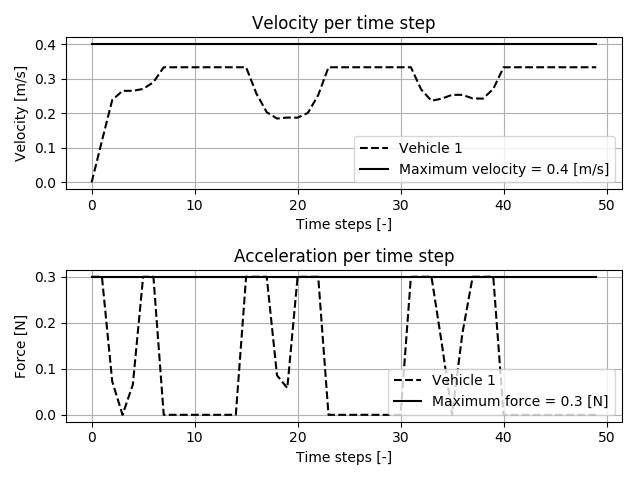
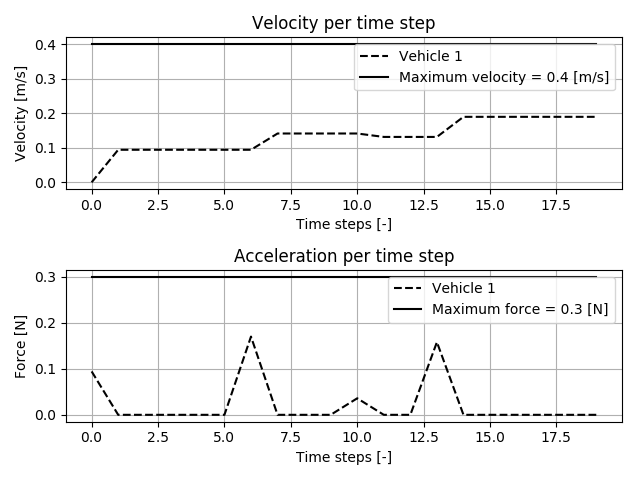
savefile updated

diff --git a/src/test.py b/src/test.py
@@ -4,7 +4,10 @@ from obstacle import Obstacle
 import matplotlib.pyplot as plt
 import numpy as np
 from math import *
+import time
+import csv
 import argparse
+import pandas as pd
 
 if __name__ == '__main__':
 
@@ -20,16 +23,19 @@ if __name__ == '__main__':
         # f_max = [0.2]    # maximum force experienced by a vehicle
         f_max = [0.3]    # maximum force experienced by a vehicle
         T = 100         # maximum time of travel
-        dt = 2          # time step size
+        dt = 5          # time step size
         d_obs = 0.1     # minimum distance required from obstacle
         M = 75          # number of constraints in order to approximate the force and velocity magnitudes
         
         obs_coords = []                  # array containing all obstacles in [x_min,x_max,y_min,y_max] format
         veh_coords = [[5, 5, 0, -2]]     # array containing all vehicles in [x_0,y_0,x_fin,y_fin] format
-        # wp_coords = [[[-0.7, 6], [3,3],[1,5],[-5, 4]]]  # array containing all waypoint in [x_wp,y_wp] format
-        wp_coords = [[[1, 3], [3,3],[-2,3], [1, 1], [3,1],[-2,1], [3,-1],[-2,-1],[1, -1], [1,-3],[3,-3], [-2, -3]]]  # array containing all waypoint in [x_wp,y_wp] format
-        name = 'waypoints.png'              # name of the figure to be saved
+        wp_coords = [[[-0.7, 6], [3,3],[1,5],[-5, 4]]]  # array containing all waypoint in [x_wp,y_wp] format
+        # wp_coords = [[[1, 3], [3,3],[-2,3], [1, 1], [3,1],[-2,1], [3,-1],[-2,-1],[1, -1], [1,-3],[3,-3], [-2, -3]]]  # array containing all waypoint in [x_wp,y_wp] format
+        name = 'waypoints'              # name of the figure to be saved
+        filename_data= 'robot_'
+        filename_waypoint = 'waypoints_'
         folder = 'results/waypoints/'       # folder name
+        datafolder = 'results/data/'       # folder name
 
         constrain_multiple_vehicles = False   # True: add contraints related to multiple vehicle, False: do not add
         constrain_waypoints = True            # True: add contraints related to waypoints, False: do not add
@@ -91,7 +97,6 @@ if __name__ == '__main__':
     # Initialize model
     m = Model("ppl")
 
-    
     ###### Inputs to the generation of the vehicles ######
     vehicle_mass = 5           # mass of the vehicles
     # v_max = 0.225              # maximum velocity of the vehicle
@@ -119,7 +124,6 @@ if __name__ == '__main__':
 
                 
     print("num_vehicles", num_vehicles)
-    # input()
     # Add constraints and add model secondary variables
     for i in range(num_vehicles):        
         vehicles[i].constrain_dynamics(vx_init[i], vy_init[i])
@@ -155,6 +159,13 @@ if __name__ == '__main__':
     m.optimize()
     m.getVars()
 
+    # Update filename with time
+    t = time.localtime()
+    timestamp =time.strftime('%m%d%H%M_', t)
+    name=name+timestamp +".png"
+    filename_data= datafolder+filename_data+timestamp+'.csv'
+    filename_waypoint =datafolder+filename_waypoint+timestamp+'.csv'
+
     # Plotting the results
     for i in range(num_vehicles):
         z = 0
@@ -175,7 +186,6 @@ if __name__ == '__main__':
                 # z = k
                 # break
         # obtaining time step at which vehicle reaches which waypoint
-
         wp_times={}
         for k in range(len(vehicles[i].kset)):
             for j in range(steps):
@@ -185,6 +195,7 @@ if __name__ == '__main__':
         wp_times= dict(sorted(wp_times.items()))
         z=list(wp_times.keys())[-1]           #printing the final time
         print("final_time:", z)
+
      
         coords = np.zeros([z,2])
         for j in range(z):                    # obtaining the coordinates to plot
@@ -201,9 +212,11 @@ if __name__ == '__main__':
             plt.legend()
         else:
             plt.scatter(coords[:,0], coords[:,1], facecolor = 'none', edgecolor = 'black')  # plot the trajectories of the vehicles
-        
-        plt.plot(vehicles[i].x_fin, vehicles[i].y_fin, '*', color='k')    # plot the final points star
-        plt.scatter(vehicles[i].x_fin, vehicles[i].y_fin, facecolor = 'none', edgecolor = 'black')  # plot the final points circle
+
+
+        #comment below 2 lines because of elimination fix final points
+        # plt.plot(vehicles[i].x_fin, vehicles[i].y_fin, '*', color='k')    # plot the final points star
+        # plt.scatter(vehicles[i].x_fin, vehicles[i].y_fin, facecolor = 'none', edgecolor = 'black')  # plot the final points circle
 
     plt.xlim([-area_size, area_size])   # limit the plot space
     plt.ylim([-area_size, area_size])   # limit the plot space
@@ -224,17 +237,25 @@ if __name__ == '__main__':
         plt.title("Velocity per time step")
         v_coords_x = []
         v_coords_y = []
-        V_coords = []
+        v_coords = []
+        v_data=np.zeros([z,2])
+        f_data=np.zeros([z,2])
+        for j in range(z):                    # obtaining the coordinates to plot
+            v_data[j, :] = [vehicles[i].vx[j].x,vehicles[i].vy[j].x]
+            f_data[j, :] = [vehicles[i].fx[j].x,vehicles[i].fy[j].x]
+    
         for j in range(len(vehicles)):                  # extract the velocity of each vehicle
             for i in range(len(vehicles[0].vx)):
                 v_coords_x.append(vehicles[j].vx[i].x)  # velocity in the x-direction
                 v_coords_y.append(vehicles[j].vy[i].x)  # velocity in the y-direction
-                V_coords.append(sqrt(vehicles[j].vy[i].x ** 2 + vehicles[j].vx[i].x ** 2))  # velocity magnitude
-            n_steps = len(V_coords)
-            fig.plot(range(len(V_coords)), V_coords, color = 'black', label= "Vehicle " + str(j+1), linestyle = line_styles[j], marker = marker_styles[j])
-            v_coords_x = []
-            v_coords_y = []
-            V_coords = []
+                v_coords.append(sqrt(vehicles[j].vy[i].x ** 2 + vehicles[j].vx[i].x ** 2))  # velocity magnitude
+            n_steps = len(v_coords)
+            fig.plot(range(len(v_coords)), v_coords, color = 'black', label= "Vehicle " + str(j+1), linestyle = line_styles[j], marker = marker_styles[j])
+            #need to comment in for multiple vehicles#############
+            # v_coords_x = []
+            # v_coords_y = []
+            # v_coords = []
+            #################################################################
 
         # Plot the maximum velocity
         fig.plot(range(n_steps), [vehicles[0].v_max]*n_steps, color = 'black', label="Maximum velocity = " + str(vehicles[0].v_max) + ' [m/s]', linestyle = line_styles[4], marker = marker_styles[4])
@@ -256,9 +277,11 @@ if __name__ == '__main__':
                 f_coords.append(sqrt(vehicles[j].fy[i].x ** 2 + vehicles[j].fx[i].x ** 2))   # force magnitude
 
             plt.plot(range(n_steps), f_coords, color='black', label= "Vehicle " + str(j+1), linestyle = line_styles[j], marker = marker_styles[j])
-            f_coords_x = []
-            f_coords_y = []
-            f_coords = []
+            #need to comment in for multiple vehicles#############
+            # f_coords_x = []
+            # f_coords_y = []
+            # f_coords = []
+            #################################################################
 
         # Plot the maximum force
         fig2.plot(range(n_steps), [vehicles[0].f_max] * n_steps, color='black', label="Maximum force = " + str(vehicles[0].f_max) + ' [N]', linestyle = line_styles[4], marker = marker_styles[4])
@@ -266,6 +289,14 @@ if __name__ == '__main__':
         plt.grid(True)
         plt.tight_layout()                                   # Make sure the titles and labels are visible
         plt.savefig(folder + extra + "Performance_" + name)  # save the resulting plot
+
+        #save data to csv file
+        data= np.append(coords,v_data,1)
+        data= np.append(data,f_data,1)
+        pd.DataFrame(data, columns=["x" , "y", "vx" , "vy", "fx" , "fy"]).to_csv(filename_data,header=True)
+        (pd.DataFrame.from_dict(data=wp_times, orient='index').to_csv(filename_waypoint, header=False))
+
+
 
     # plt.show()
     exit()

diff --git a/src/vehicle.py b/src/vehicle.py
@@ -127,5 +127,7 @@ class Vehicle:
 
             #for single agent
             # self.Tf = self.model.addVar(lb=0, vtype=GRB.INTEGER, name="tf")
+        # z=list(wp_times.keys())[-1]           #printing the final time
+     
 
 
